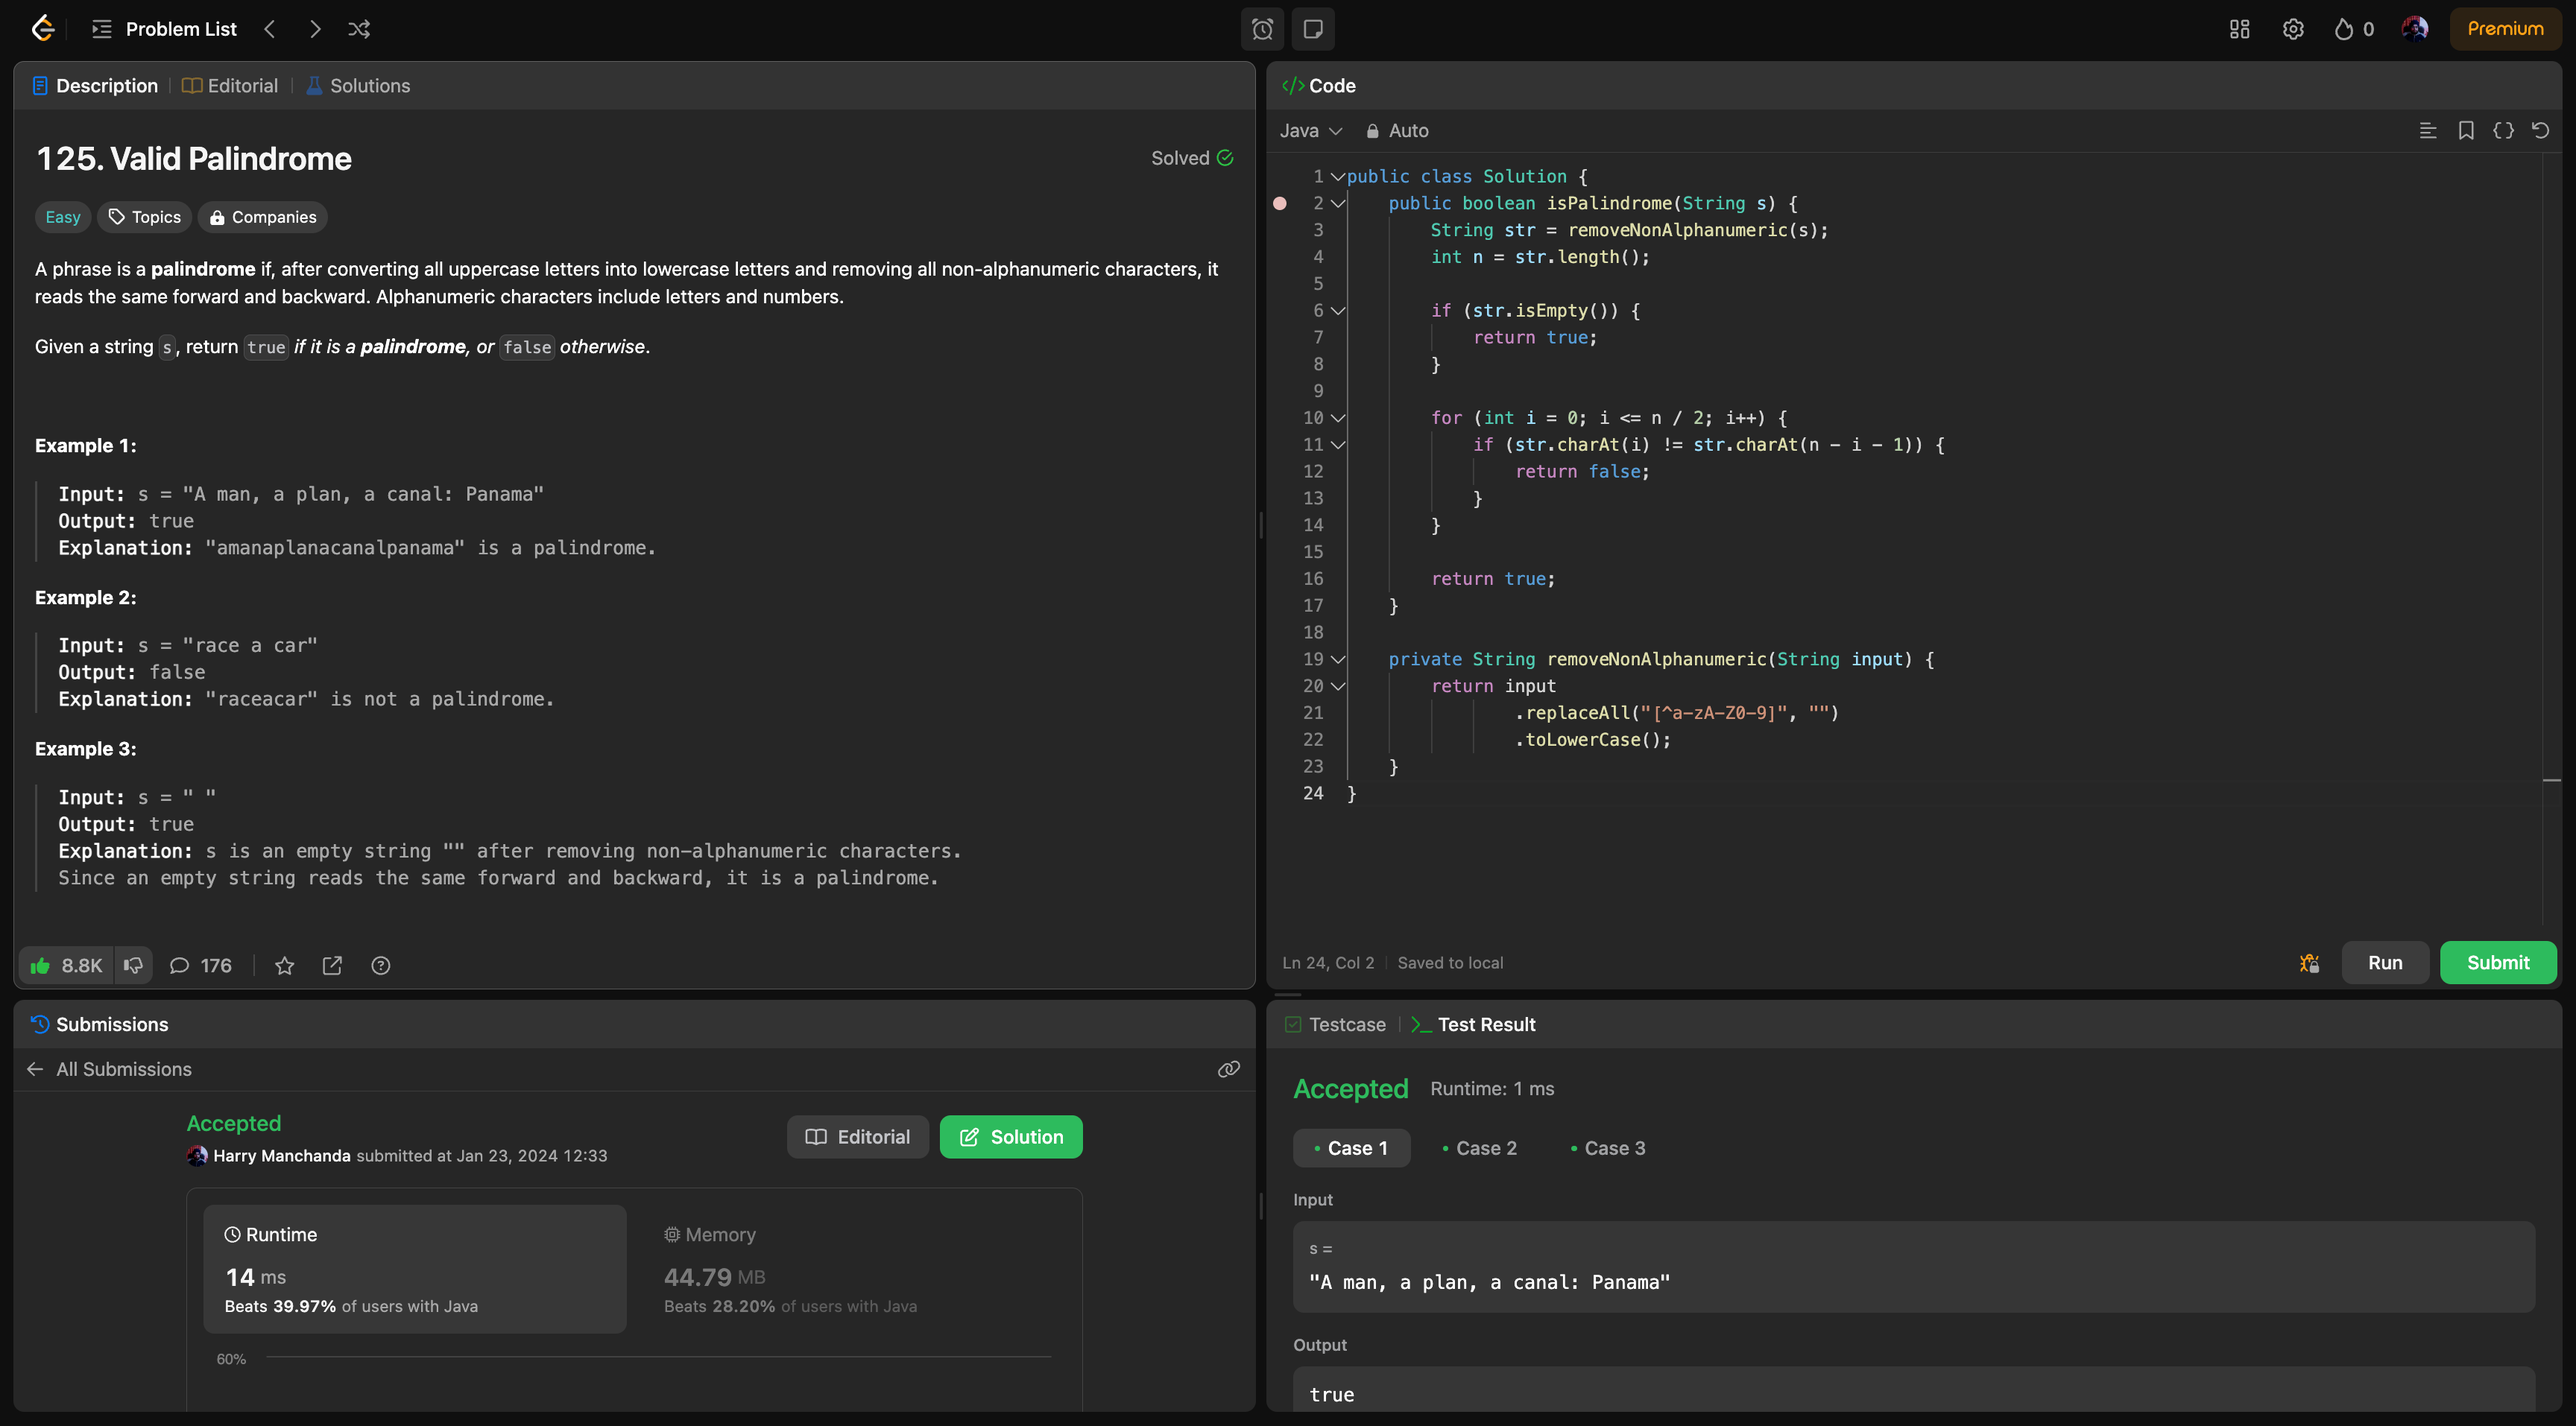
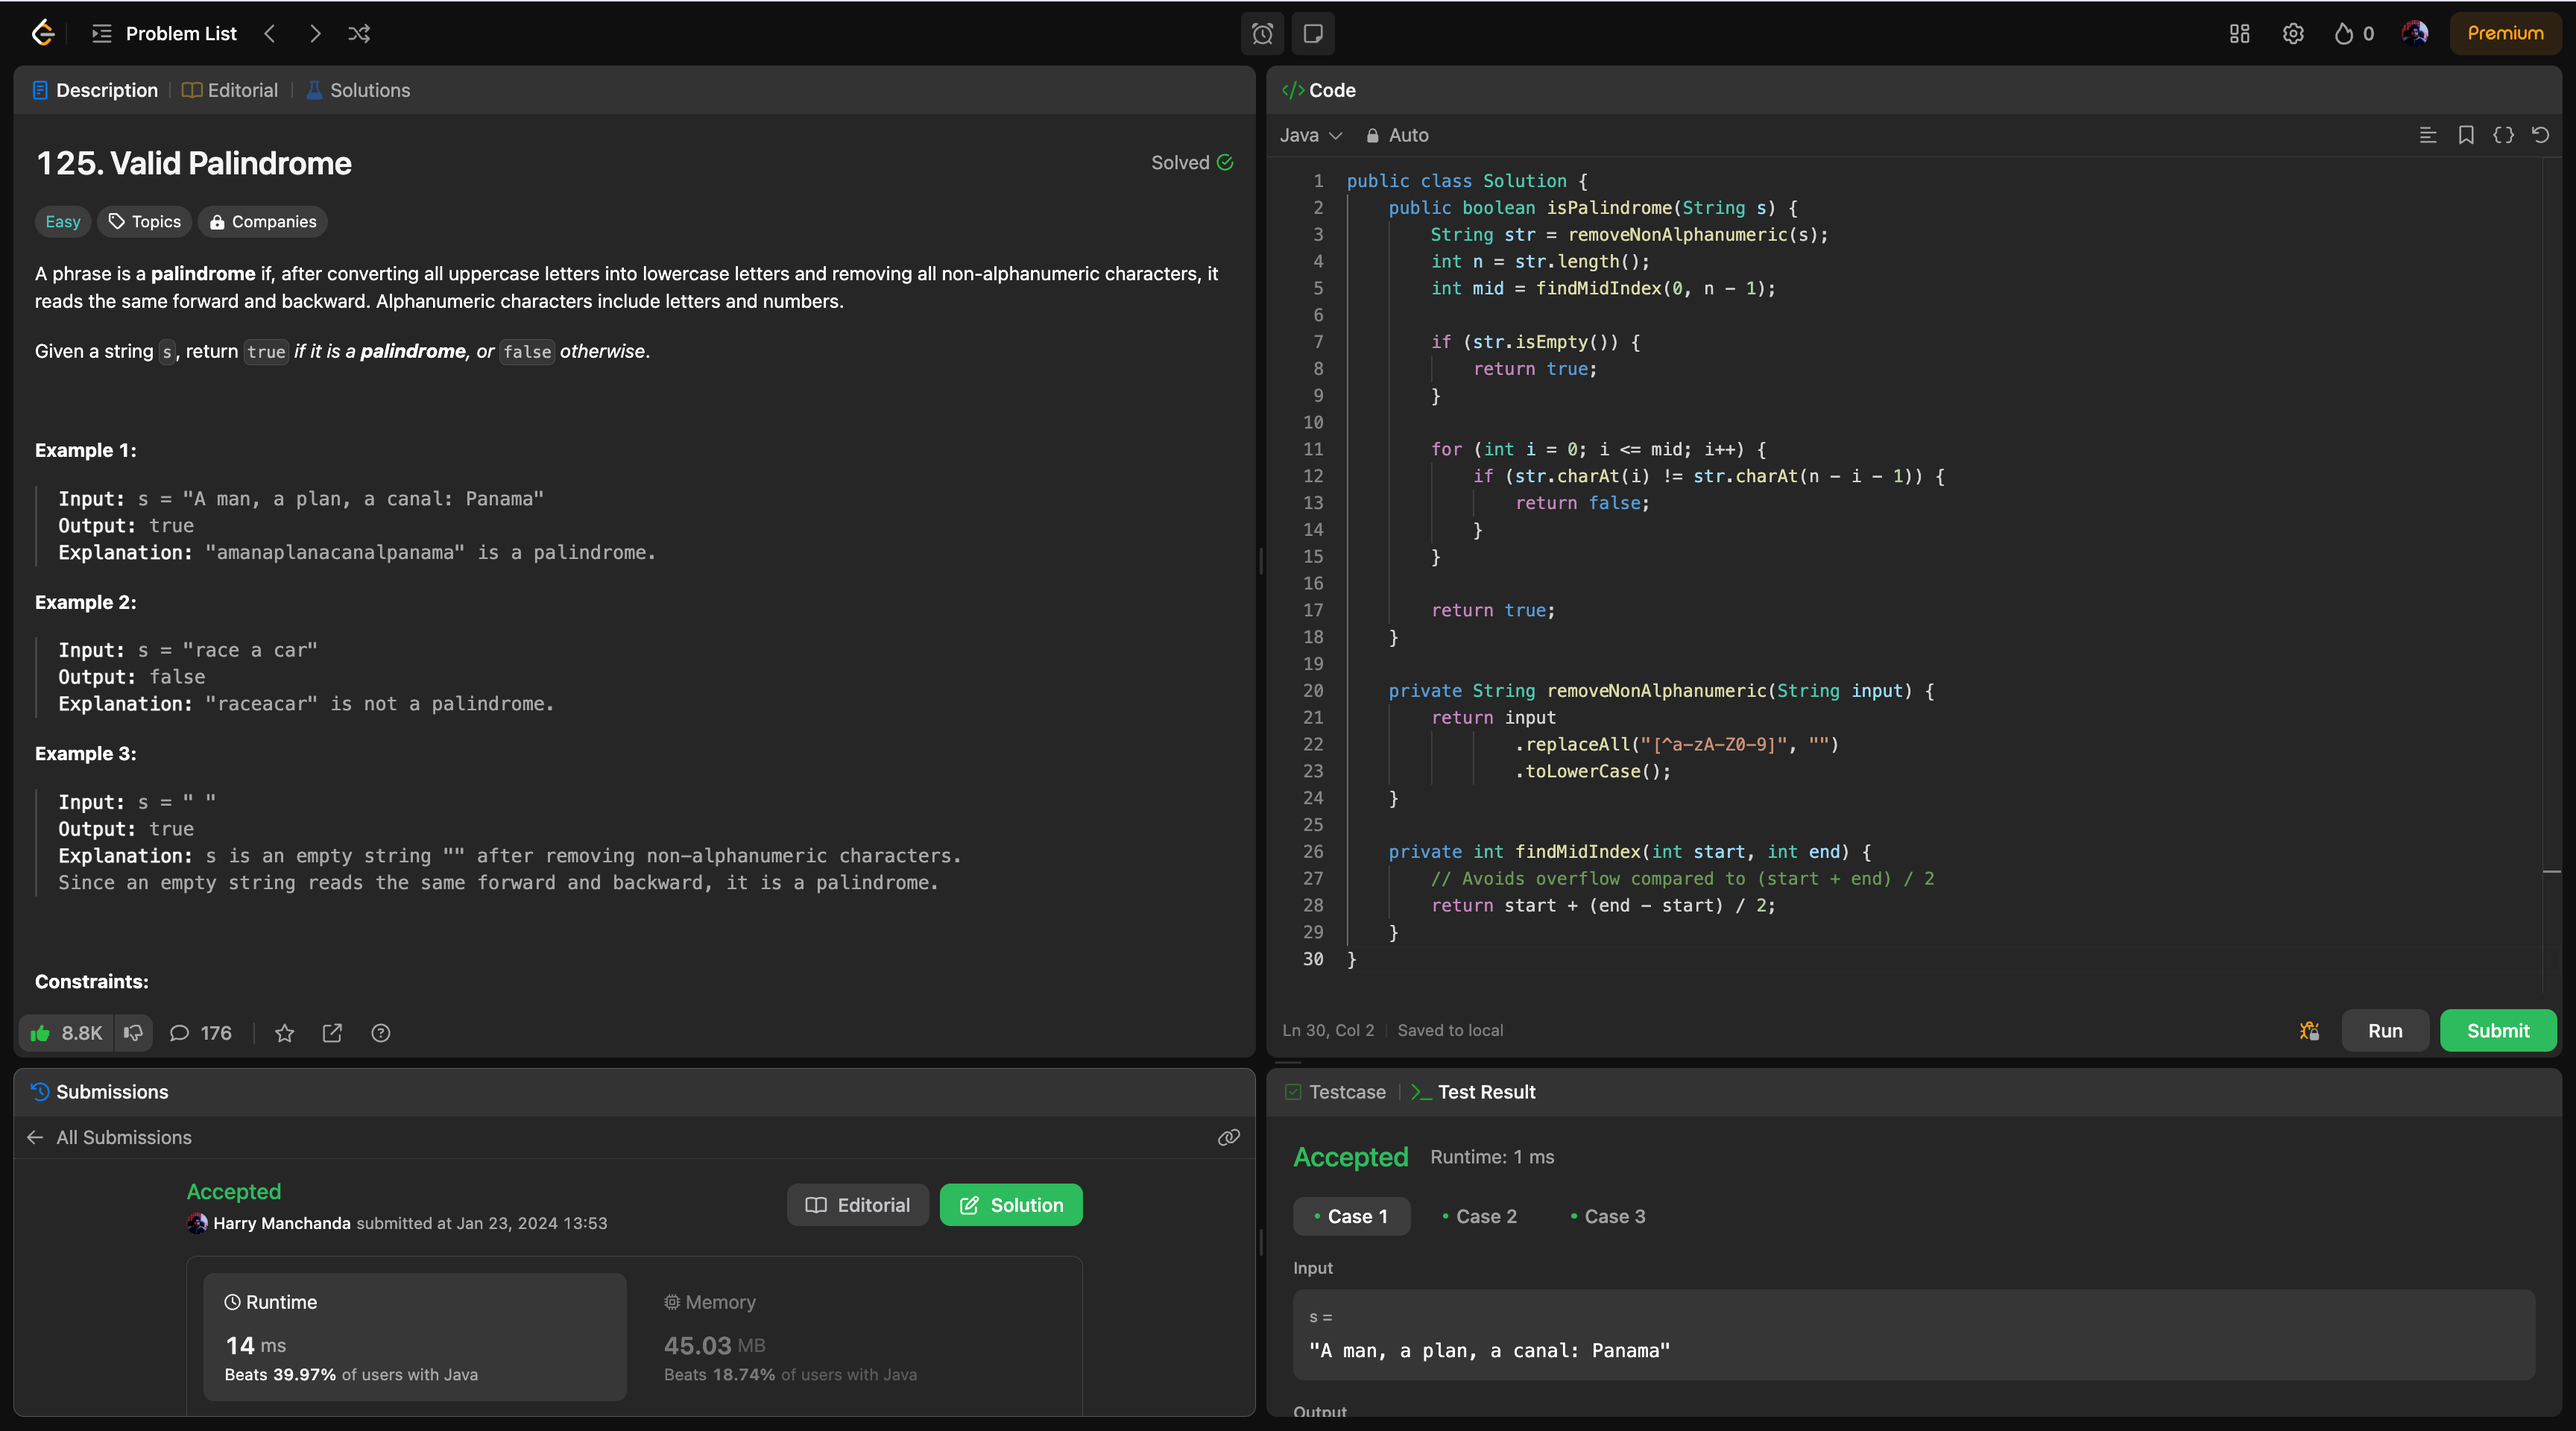
Valid Palindrome updates

diff --git a/066-valid-palindrome/001-solution/Solution.java b/066-valid-palindrome/001-solution/Solution.java
@@ -10,12 +10,13 @@ public class Solution {
     public boolean isPalindrome(String s) {
         String str = removeNonAlphanumeric(s);
         int n = str.length();
+        int mid = findMidIndex(0, n - 1);
 
         if (str.isEmpty()) {
             return true;
         }
 
-        for (int i = 0; i <= n / 2; i++) {
+        for (int i = 0; i <= mid; i++) {
             if (str.charAt(i) != str.charAt(n - i - 1)) {
                 return false;
             }
@@ -28,6 +29,11 @@ public class Solution {
         return input
                 .replaceAll("[^a-zA-Z0-9]", "")
                 .toLowerCase();
+    }
+
+    private int findMidIndex(int start, int end) {
+        // Avoids overflow compared to (start + end) / 2
+        return start + (end - start) / 2;
     }
 }
 
